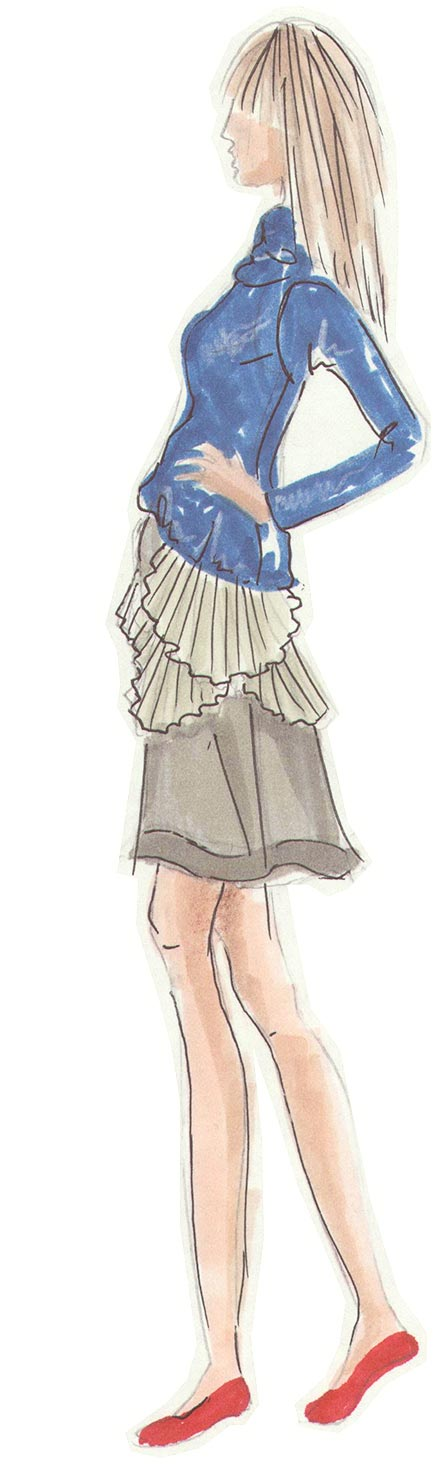
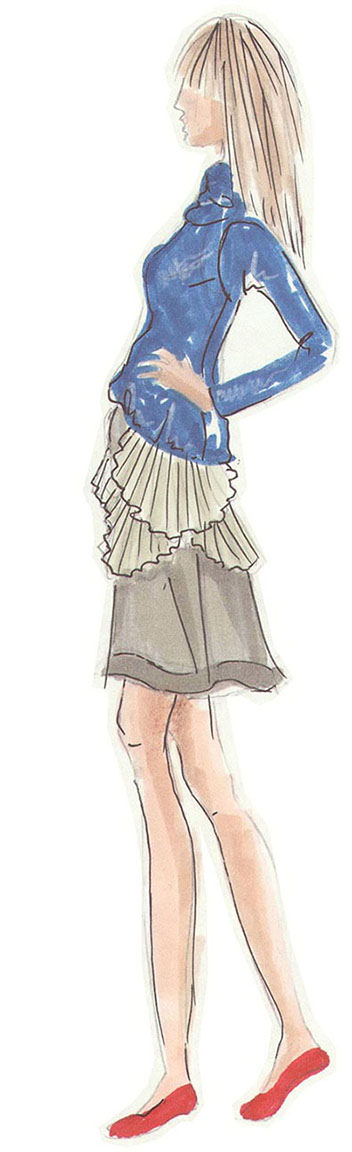
Responsive-ness changes across the board

diff --git a/src/routes/Press.js b/src/routes/Press.js
@@ -13,7 +13,36 @@ export default class Press extends React.Component {
 				</div>
 				<div className={styles.textWrapper}>
 					<h4 className={styles.headline}>Press</h4>
-					<p className={styles.mainText}></p>
+					<p className={styles.mainText}>
+						Marlon Gobel Spring/Summer 2013 New York Fashion Week
+						http://fashionreverie.com/?p=2622
+
+						Stan Lee's Comikaze Fashion Show
+						www.youtube.com/watch?v=BkGY8fOC8jk
+
+						Go Follow Rabbits Press:
+
+						Girl Gone Geek Blog
+						http://girlgonegeekblog.com/2012/08/14/etsy-crush-of-the-week-go-chase-rabbits/
+
+						The Hunt
+						www.thehunt.com/finds/FRbyvA-go-follow-rabbits---minecraft-skirt--go-chase-rabbits
+
+						CNet
+						www.cnet.com/news/mars-panoramic-skirt-wrap-a-rover-around-your-waist/
+
+						Fashionably Geek
+						http://fashionablygeek.com/?s=Go+Follow+Rabbits
+
+						Laughing Squid
+						http://laughingsquid.com/space-shuttle-launch-skirt/
+
+						Set to Stunny
+						http://settostunning.com/2013/01/07/sts-spotlight-go-follow-rabbits-geek-chic-skirts/
+
+						BuzzFeed
+						www.buzzfeed.com/donnad/10-pop-culture-skirts-have-my-fashion-sense-tingli?utm_term=.gv6B35rpl4#.fjAAaR8W0N
+					</p>
 				</div>
 			</div>
 		);

diff --git a/src/components/layout/style/Nav.scss b/src/components/layout/style/Nav.scss
@@ -1,10 +1,10 @@
 .wrapper {
 	width: 100%;
   margin: 0 auto;
-	padding: 3em 0 0 0;
-  // padding-bottom: 0;
+	// padding: 3em 0 0 0;
+  padding-bottom: 1em;
   text-align: center;
-  font-family: 'Open Sans', sans-serif;
+  font-family: 'Lato', sans-serif;
   font-weight: 300;
   font-size: 1em;
 	display: flex;
@@ -18,6 +18,10 @@
 
     .navLink:hover {
         color: #000000;
+				// font-weight: 700;
+				transition-property: color;
+				transition-duration: 0.3s;
+				transition-timing-function: ease-in;
     }
 }
 
@@ -25,10 +29,10 @@
 	.wrapper {
 		padding: 0.75em 0 0.75em 0;
 		// padding-bottom: 0.5em;
-		position: fixed;
-		bottom: 0;
+		// position: fixed;
+		// bottom: 0;
 		// height: 50px;
-		z-index: 99999;
+		// z-index: 99999;
 		}
 }
 

diff --git a/src/components/layout/style/Layout.scss b/src/components/layout/style/Layout.scss
@@ -1,9 +1,50 @@
- a {
- 	text-decoration: none;
- }
+html, body {
+    margin: 0;
+		padding: 0;
+		border: 0;
+    height: 100%;
+    min-height: 100%;
+}
 
- body {
+a {
+	text-decoration: none;
+}
+
+.layout {
 	margin: 0;
 	padding: 0;
-	border: 0;
- }
+	min-height: 100vh;
+	display: flex;
+	flex-flow: column;
+	justify-content: space-between;
+}
+
+header {
+	flex: 0 0 auto;
+}
+
+main {
+	flex: 1 1 auto;
+
+	display: flex;
+	flex-flow: column;
+	justify-content: center;
+}
+
+nav {
+	flex: 0 0 auto;
+	padding-bottom: 1em;
+}
+
+
+// @media all and (max-width: 760px) {
+// 	.layout {
+// 		flex-flow: column;
+//  		justify-content: space-between;
+//  		align-items: center;
+//   }
+//
+// 	main {
+// 		align-content: center;
+// 	}
+//  }

diff --git a/src/routes/Home.js b/src/routes/Home.js
@@ -10,9 +10,15 @@ export default class Home extends React.Component {
 	render() {
 		return (
 			<div className={styles.homeWrapper}>
-				<img className={styles.largeFormat} src={two} height='700' />
-				<img className={styles.mobileFirst} src={one} height='700' />
-				<img className={styles.largeFormat} src={three} height='700' />
+				<div className={[styles.container, styles.largeOnly].join(' ')}>
+					<img src={two} />
+				</div>
+				<div className={[styles.container, styles.mobileFirst].join(' ')}>
+					<img src={one} />
+				</div>
+				<div className={[styles.container, styles.largeOnly].join(' ')}>
+					<img src={three} />
+				</div>
 			</div>
 		);
 	}

diff --git a/src/routes/style/Home.scss b/src/routes/style/Home.scss
@@ -1,13 +1,43 @@
 .homeWrapper {
-	padding-top: 120px;
+	// padding-top: 120px;
+
+	height: 100%;
 	display: flex;
 	flex-flow: row;
 	justify-content: center;
 	align-items: center;
 }
 
+.container img {
+	// height: 700px;
+	// width: auto;
+
+	max-width: 100%;
+	height: auto;
+	// max-height: 700px;
+}
+
+.mobileFirst {
+
+}
+
 @media all and (max-width: 760px) {
-	.largeFormat {
-		display: none;
-	}
+
+	// .homeWrapper {
+	// 	// padding-top: 74px;
+	// 	flex-flow: column;
+	// 	justify-content: center;
+	// 	align-items: center;
+	// }
+
+	// .largeOnly {
+	// 	display: none;
+	// }
+
+	// .container img {
+	// 	height: 400px;
+	// 	width: auto;
+	// }
+
+
 }

diff --git a/src/components/layout/Nav.js b/src/components/layout/Nav.js
@@ -6,14 +6,14 @@ import styles from './style/Nav.scss';
 export default class Nav extends React.Component {
 	render() {
 		return (
-			<nav>
+			// <nav>
 				<div className={styles.wrapper}>
 					<Link className={styles.navLink} to='about'>About</Link>
 					<Link className={styles.navLink} to='portfolio'>Portfolio</Link>
 					<Link className={styles.navLink} to='press'>Press</Link>
 					<Link className={styles.navLink} to='contact'>Contact</Link>
 				</div>
-			</nav>
+			// </nav>
 		);
 	}
 }

diff --git a/src/components/layout/Header.js b/src/components/layout/Header.js
@@ -6,12 +6,12 @@ import styles from './style/Header.scss';
 export default class Header extends React.Component {
 	render () {
 		return (
-			<header>
+			// <header>
 				<div className={styles.wrapper}>
 					<Link to="/"><h1 className={styles.headline}>Ashley Berthiaume</h1></Link>
 					<h2 className={styles.subheader}>Fashion Designer</h2>
 				</div>
-			</header>
+			// </header>
 		);
 	}
 }

diff --git a/src/index.html b/src/index.html
@@ -3,7 +3,7 @@
 
 <head>
 	<meta charset="utf-8">
-	<meta name="viewport" content="width=device-width">
+	<meta name="viewport" content="width=device-width, initial-scale=1.0">
 	<title>Ashley Berthiaume - Fashion Designer</title>
 	<link href="https://fonts.googleapis.com/css?family=Simonetta" rel="stylesheet">
 	<link href="https://fonts.googleapis.com/css?family=Lato:400,700" rel="stylesheet">

diff --git a/src/components/layout/Footer.js b/src/components/layout/Footer.js
@@ -5,11 +5,11 @@ import styles from './style/Footer.scss';
 export default class Footer extends React.Component {
 	render () {
 		return (
-      <footer>
+      // <footer>
 				<div className={styles.wrapper}>
 					<p className={styles.copyright}>Copyright 2017 Ashley Berthiaume</p>
 				</div>
-			</footer>
+			// </footer>
 		);
 	}
 }

diff --git a/src/components/Layout.js b/src/components/Layout.js
@@ -11,12 +11,15 @@ export default class Layout extends React.Component {
 	render() {
 		return (
 			<div className={styles.layout}>
-				<Header/>
+				<header>
+					<Header />
+				</header>
 				<main>
 					{this.props.children}
 				</main>
-				<Nav/>
-				<Footer/>
+				<nav>
+					<Nav />
+				</nav>
 			</div>
 		);
 	}

diff --git a/src/routes/style/About.scss b/src/routes/style/About.scss
@@ -1,11 +1,13 @@
 .wrapper {
+	height: 100%;
 	display: flex;
 	flex-flow: row;
 	justify-content: center;
-	padding-top: 120px;
+	// padding-top: 120px;
 }
 
 .imageWrapper {
+	max-width: 100%;
 	margin: 0 1em;
 }
 

diff --git a/src/components/layout/style/Header.scss b/src/components/layout/style/Header.scss
@@ -17,7 +17,7 @@ header {
 	flex-flow: column nowrap;
 	justify-content: center;
 	align-items: center;
-	position: fixed;
+	// position: fixed;
 	width: 100%;
 	padding: 1em 0;
 
